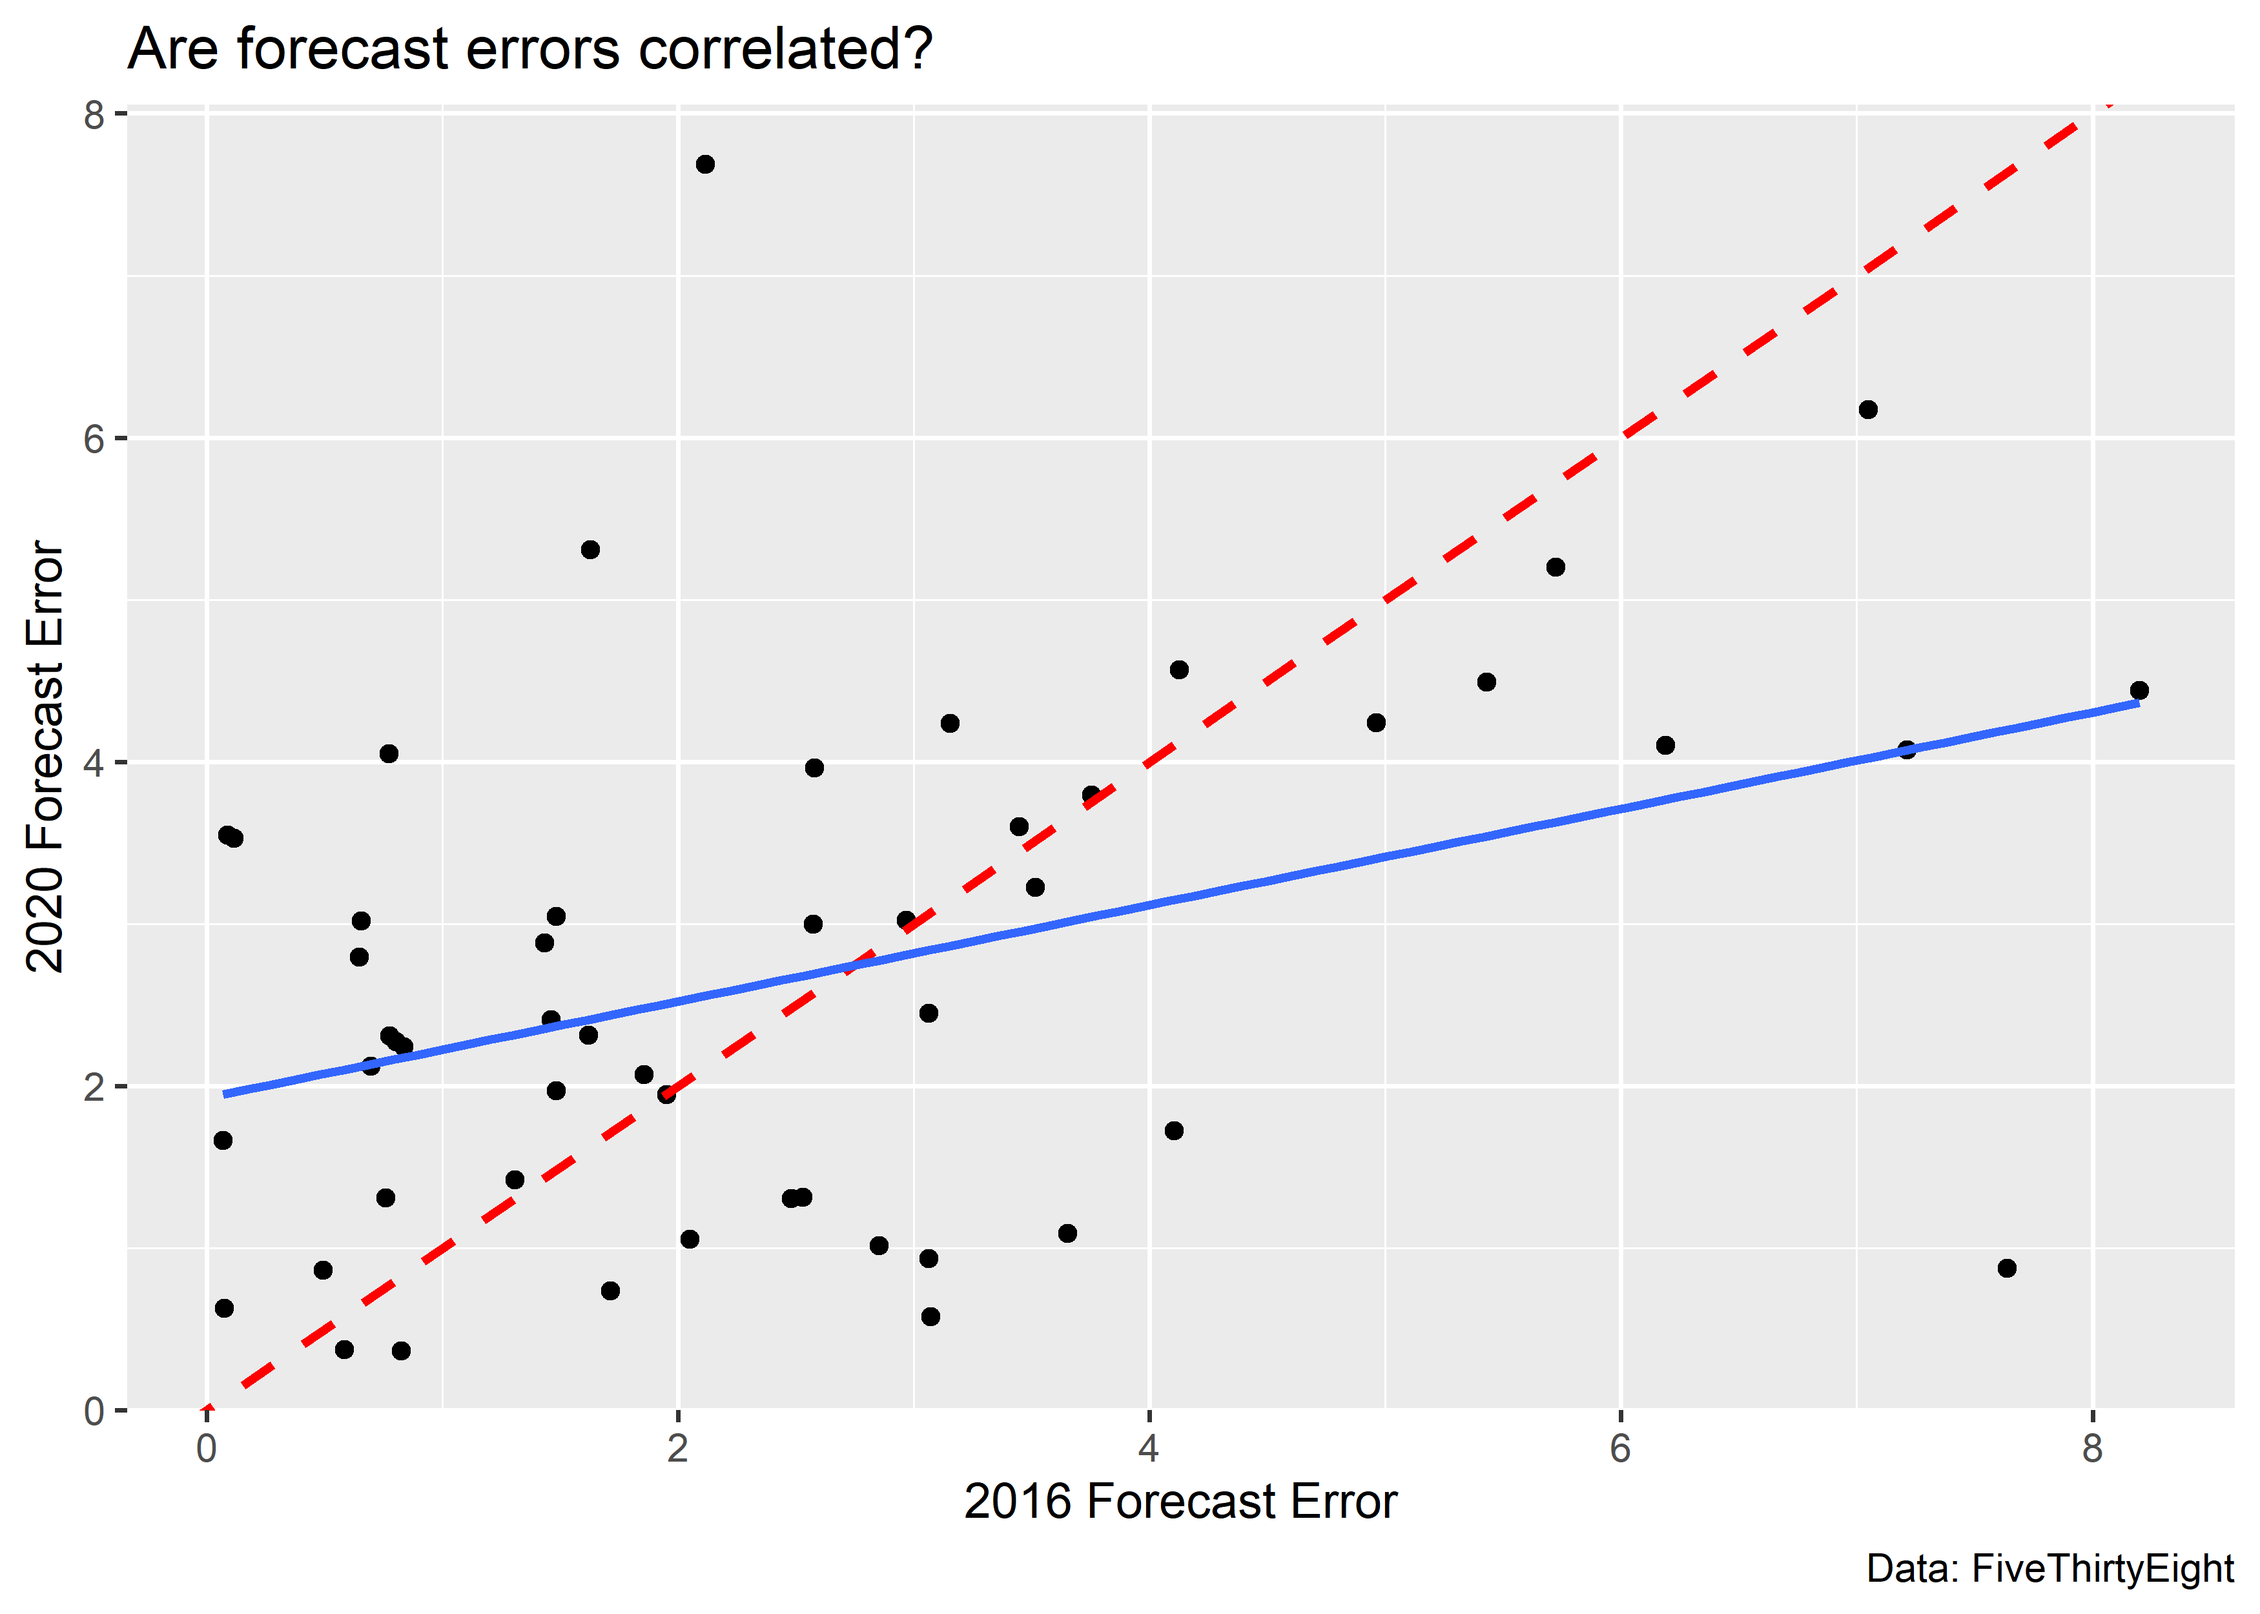
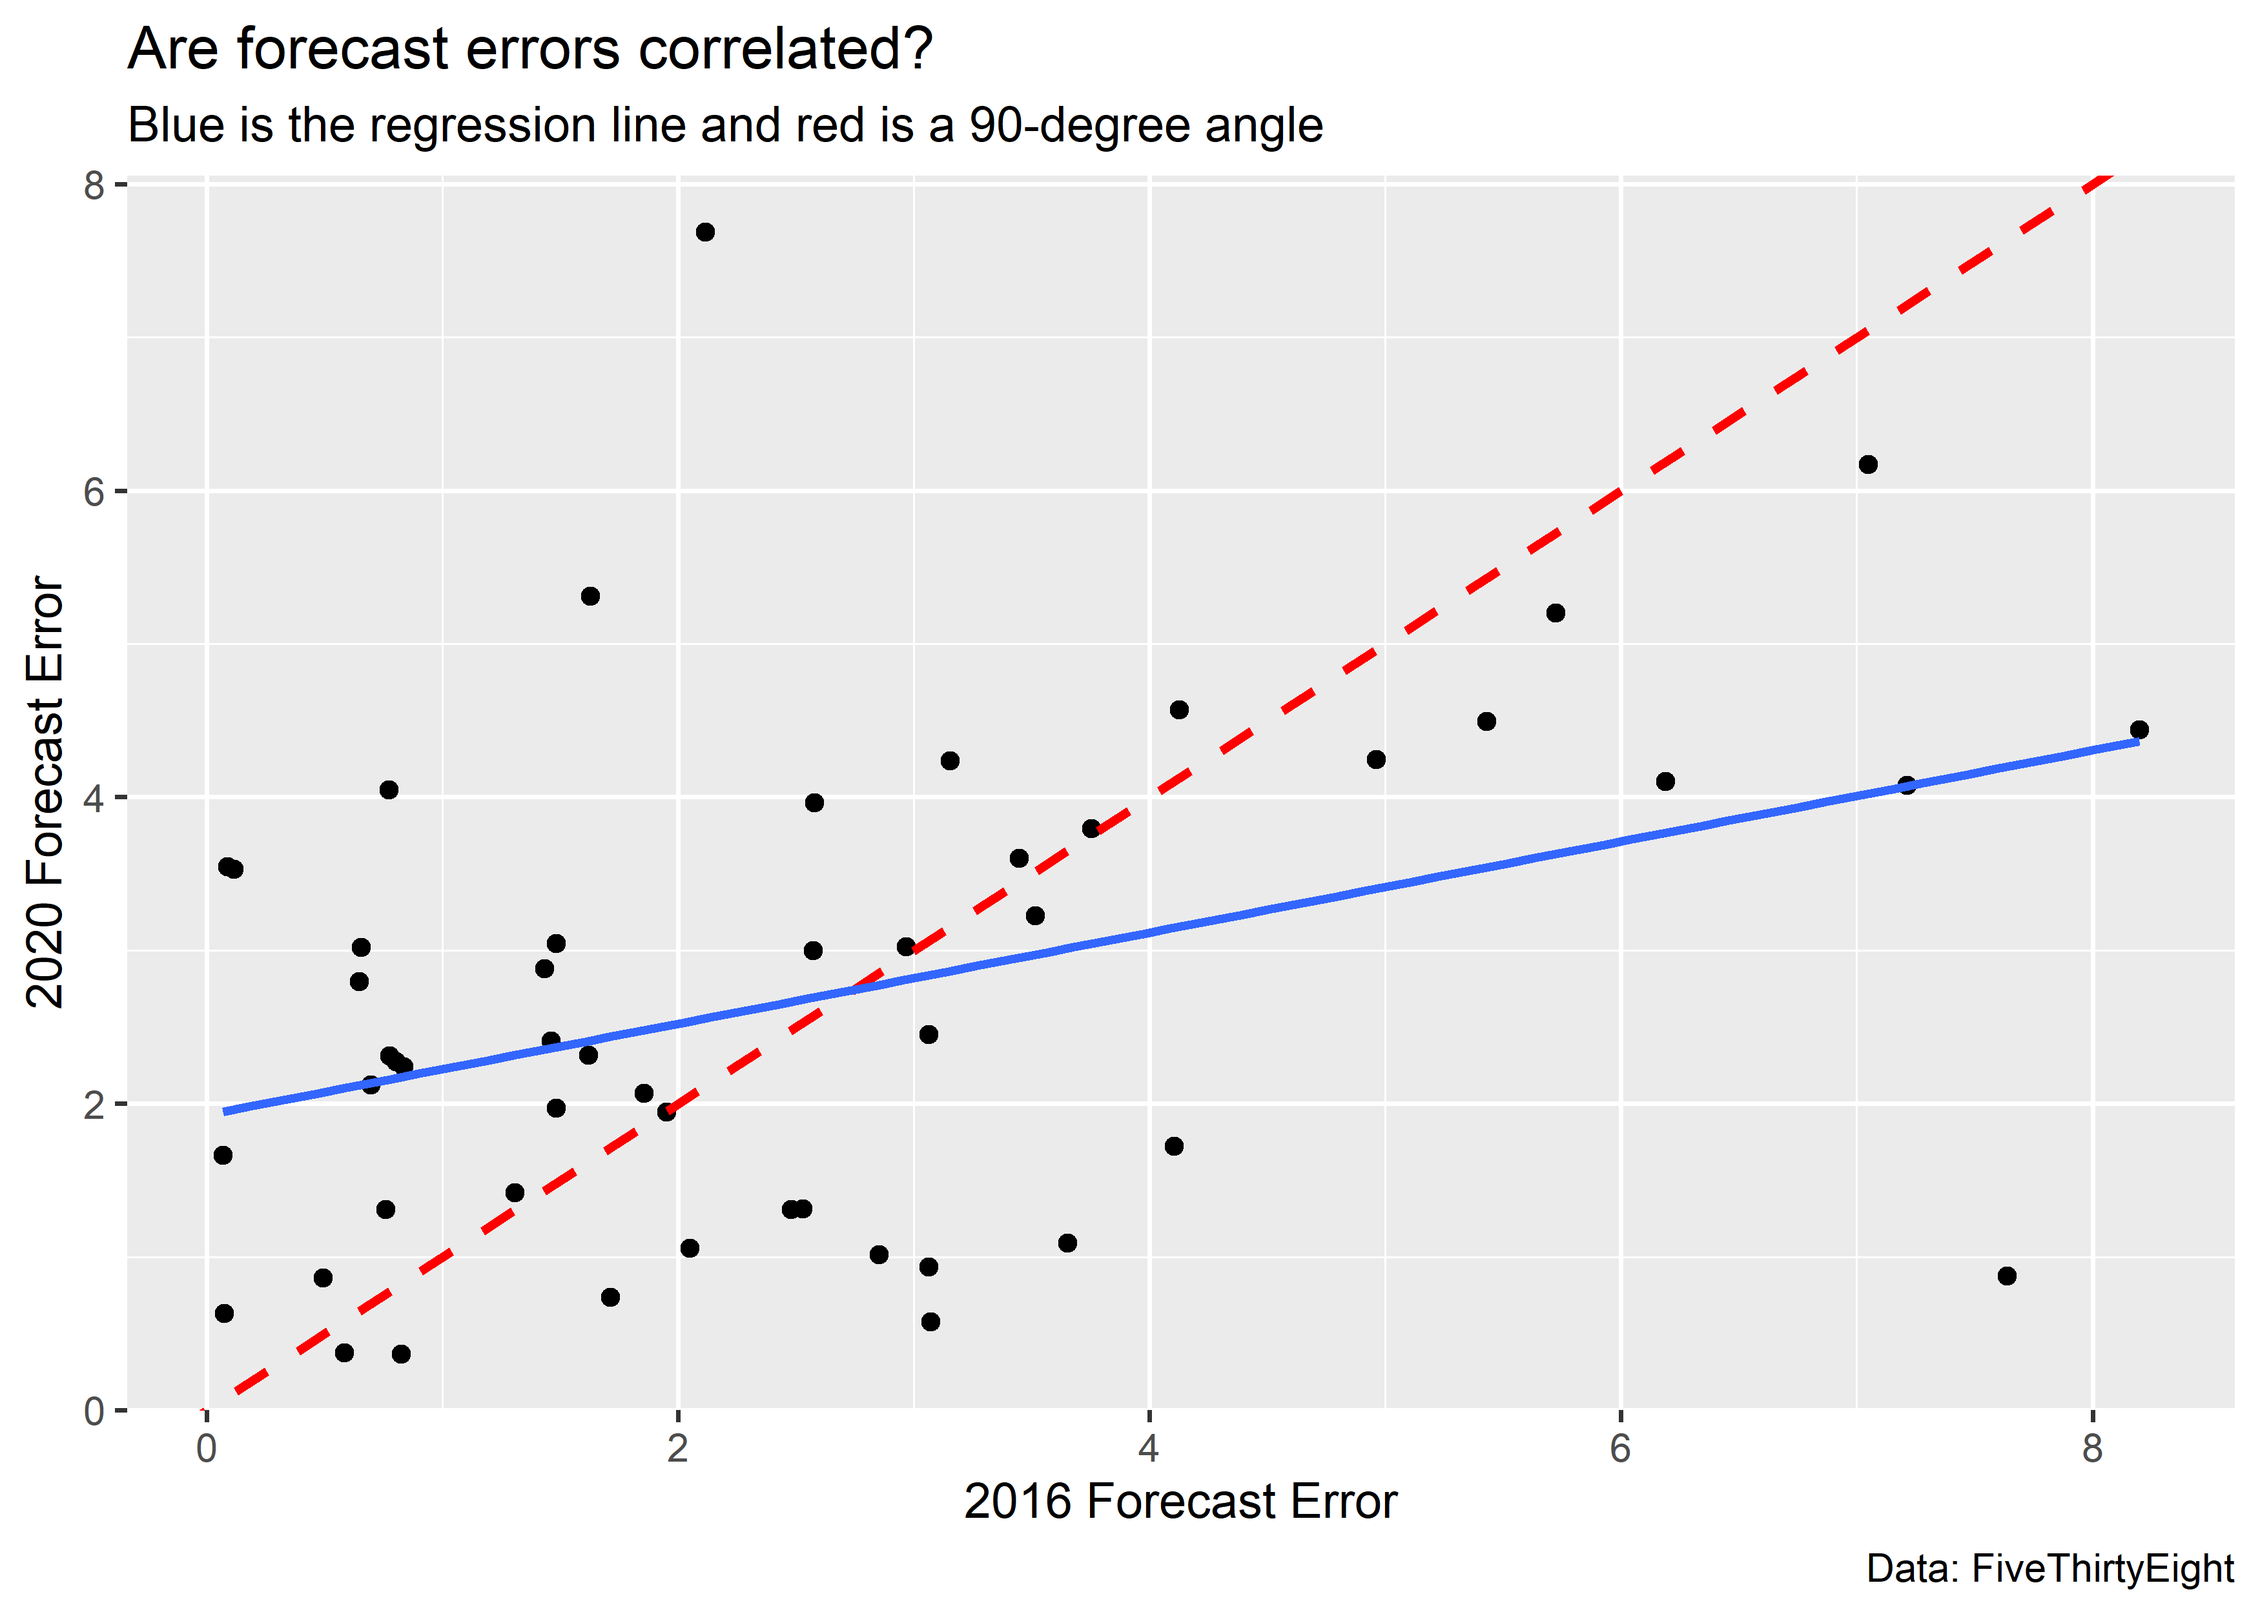
fixing typos

diff --git a/DPR 101/Notes/08_drawing_maps_pt2.md b/DPR 101/Notes/08_drawing_maps_pt2.md
@@ -266,6 +266,7 @@ elect_night |>
     x = "2016 Forecast Error",
     y = "2020 Forecast Error",
     title = "Are forecast errors correlated?",
+    subtitle = "Blue is the regression line and red is a 90-degree angle",
     caption = "Data: FiveThirtyEight"
   )
 ```
@@ -285,7 +286,7 @@ average) in 2016 tended to see an improvement in prediction error in
 
 As a final step in telling a story about FiveThirtyEight’s forecast
 errors, we might conclude by summarizing where prediction errors
-worsened or improved in 2020 relative to 2016. This is an ideal taks for
+worsened or improved in 2020 relative to 2016. This is an ideal task for
 a map, but instead of making a full blown map, we can just use a
 geofaceted small multiple. The below figure shows the percentage point
 improvement in FiveThirtyEight’s forecast in different states in 2020
